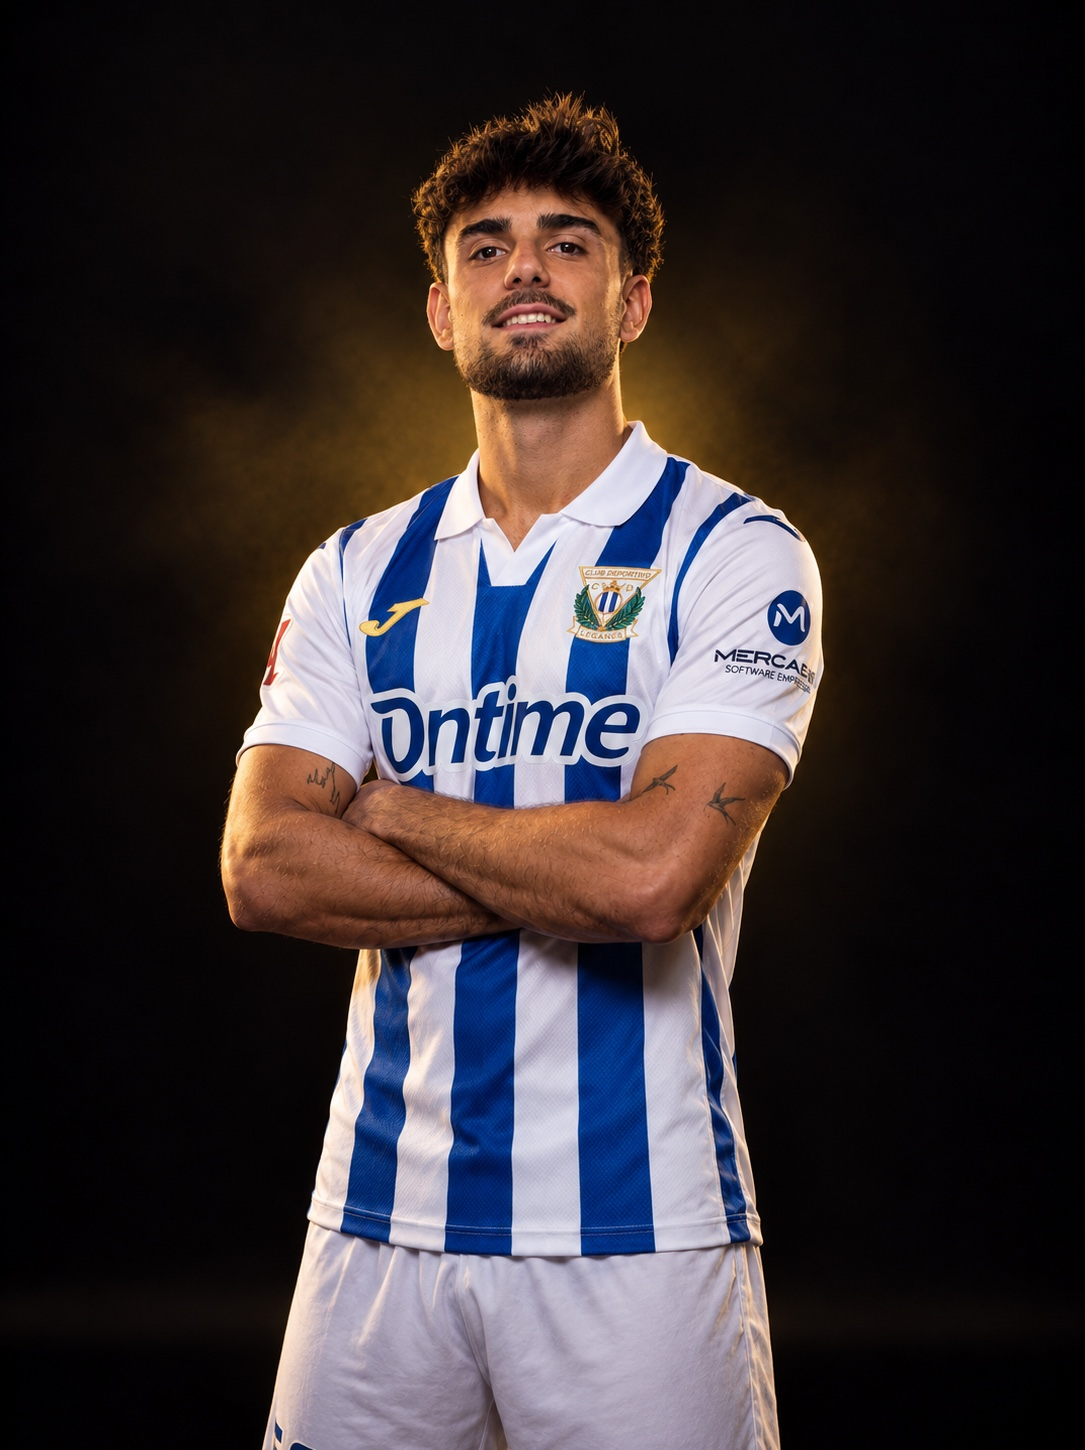
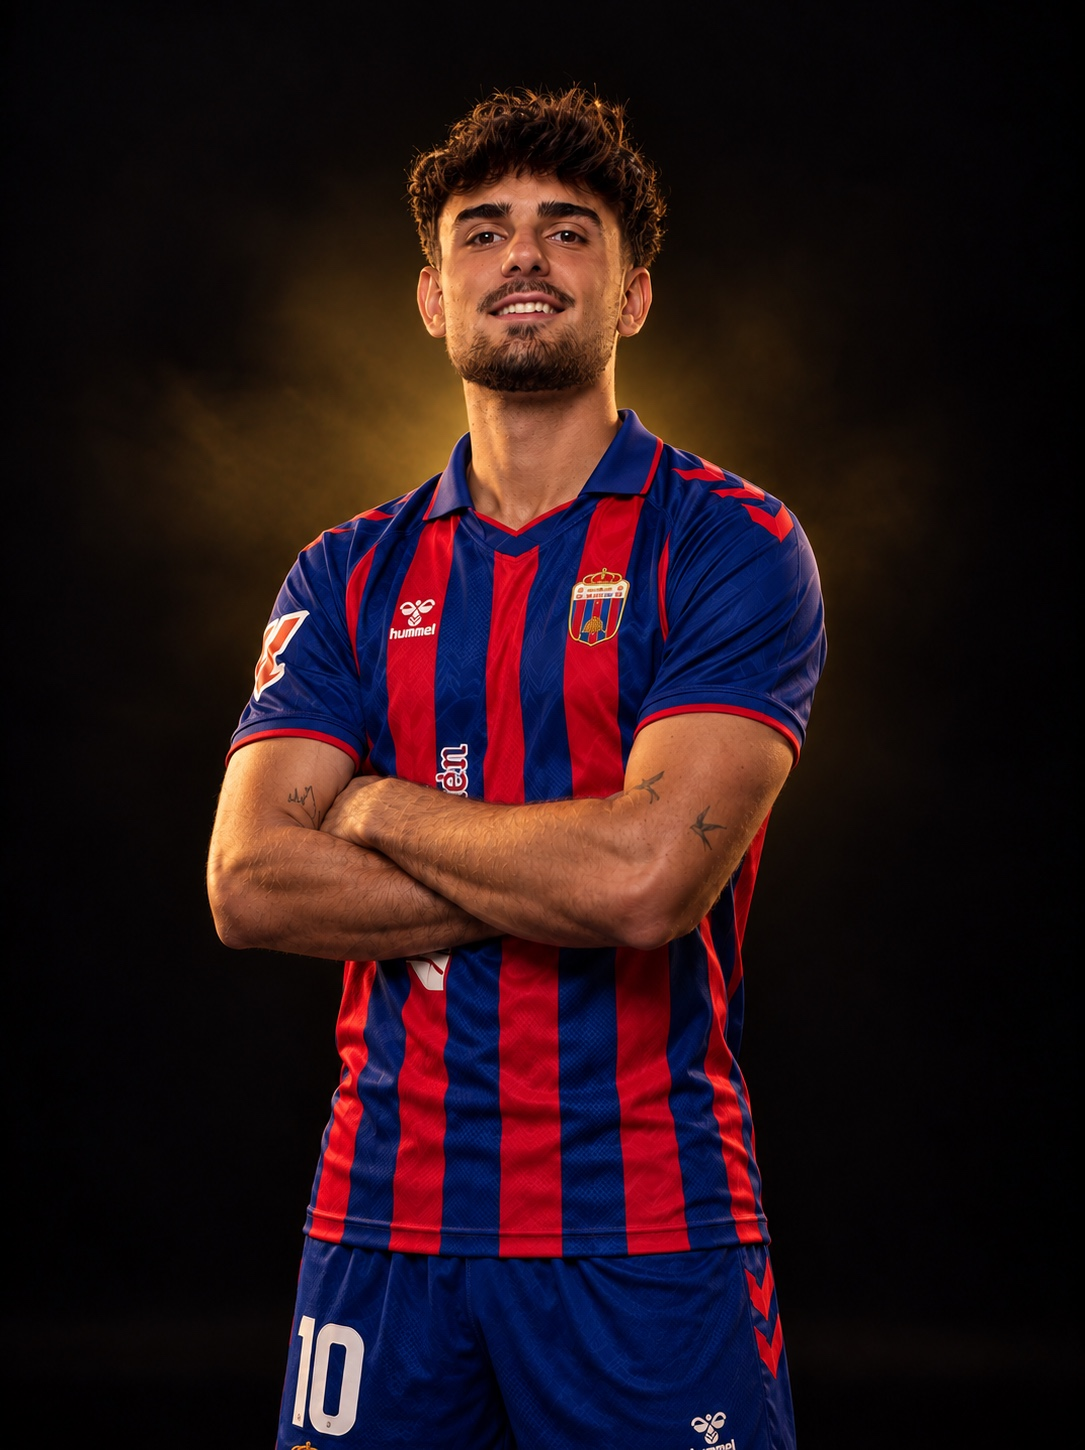
roster: Guirao y Danev con la camiseta de su club, y foto de estudio para Jordi Ferrer
Carlos Guirao pasa a la del CD Eldense (antes enseñaba la del Leganés, su
club anterior) y Dimitar Danev a la del Vardar (antes, la de la selección de
Macedonia del Norte). Jordi Ferrer recibe su foto de estudio con la del
Atlético La Paz. Las 25 primeras tarjetas quedan en la serie de estudio.

diff --git a/docs/hallazgos-abiertos.md b/docs/hallazgos-abiertos.md
@@ -102,41 +102,26 @@ Santi Pallarés, Boston Billups y Álex Domínguez) y el resto va pasando a la s
 estudio de abajo.
 
 **Desde el 2026-09-25 las fotos son una serie de estudio que prepara Mario**: todas
-con el mismo fondo oscuro, posado de brazos cruzados y, salvo las dos excepciones de
-abajo, la camiseta del club actual.
+con el mismo fondo oscuro, posado de brazos cruzados y la camiseta del club actual.
 Las va entregando por tandas y se sustituyen en el orden del grid. Mientras no
 estén todas, el grid mezcla las de estudio con las antiguas.
 
-**Hechas con la serie de estudio (24)**, las posiciones 1 a 25 del grid menos la 24
-(Jordi Ferrer), a 2026-09-30: Juan Cruz, Dani Requena, Mati Barzic, Iker Luque, Javi
-Hernández, Alberto Del Moral, Thiago Helguera, Owen Emeka, Salim El-Jebari, Damián
-Cáceres, Juanjo Sánchez, Carlos Guirao, Francisco Dias, Dani Muñoz, Christian
-Manrique, Dimitar Danev, Roberto Olabe, Alessandro Burlamaqui, Axel Montaña, Luis
-Quintero, Abde Raihani, Abdoulaye Keita, Dani Rebollo y Gonzalo Rodríguez. Con ellas
+**Hechas con la serie de estudio (25)**, las posiciones 1 a 25 del grid a
+2026-09-30: Juan Cruz, Dani Requena, Mati Barzic, Iker Luque, Javi Hernández, Alberto
+Del Moral, Thiago Helguera, Owen Emeka, Salim El-Jebari, Damián Cáceres, Juanjo
+Sánchez, Carlos Guirao, Francisco Dias, Dani Muñoz, Christian Manrique, Dimitar
+Danev, Roberto Olabe, Alessandro Burlamaqui, Axel Montaña, Luis Quintero, Abde
+Raihani, Abdoulaye Keita, Dani Rebollo, Jordi Ferrer y Gonzalo Rodríguez. Con ellas
 se cierran pendientes de la vía anterior: la foto de Alberto Del Moral que esperaba
-visto bueno, la de Mati Barzic, que era corta de resolución (619×825), y tres
-jugadores que no tenían ninguna (Abde Raihani, Dani Rebollo y Gonzalo Rodríguez).
-
-**Jordi Ferrer (posición 24) sigue con su foto antigua**: el PNG que llegó con su
-nombre el 2026-09-30 era una copia exacta, byte a byte, del de Dani Rebollo (portero
-del AVS; Ferrer es del Atlético La Paz). No se aplicó. Pendiente de que Mario mande
-la buena.
+visto bueno, la de Mati Barzic, que era corta de resolución (619×825), la de Carlos
+Guirao, que enseñaba el club anterior (Leganés), y tres jugadores que no tenían
+ninguna (Abde Raihani, Dani Rebollo y Gonzalo Rodríguez).
 
 **Las diez primeras llegaron dos veces.** La primera versión llevaba un resplandor
 dorado muy fuerte detrás; Mario las rehízo más suaves (cinco el 2026-09-28 y las
 otras cinco el 2026-09-30) y las nuevas sustituyeron a las primeras. Desde la
 posición 11 ya llegan con el resplandor suave. Una foto ya aplicada puede volver a
 llegar retocada: se sustituye igual.
-
-**Dos fotos de estudio no enseñan el club de la ficha**, pendiente de Mario (a
-2026-09-30). Las dos se aplicaron igual porque la foto anterior tenía ya la misma
-camiseta, así que no empeoran nada:
-- **Carlos Guirao** lleva la del **CD Leganés** y la ficha dice CD Eldense. Según el
-  barrido del 2026-09-05 (más abajo), el Leganés es su club anterior y en Drive no hay
-  material del Eldense.
-- **Dimitar Danev** lleva la de la **selección de Macedonia del Norte** (escudo de la
-  federación, ФФМ) y la ficha dice Vardar Skopje. Es internacional con esa selección
-  (`nationalTeamCodes: ["MK"]`), pero la tarjeta muestra el club.
 
 **Cómo se aplica una tanda**: llegan en PNG de unos 1085×1450 (3:4; alguna varía en
 un par de píxeles), sin perfil de color,
@@ -150,6 +135,13 @@ contenido sea el suyo**: en la tanda del 2026-09-30 dos PNG con nombres distinto
 eran el mismo archivo. Antes de aplicar, comparar las sumas (`md5 -q *.png`) y
 buscar repetidos. Si el jugador no tenía foto, el archivo nuevo se crea como
 `<slug>.jpg`.
+
+**Revisar cada camiseta contra el club de la ficha antes de aplicar**, ampliando el
+escudo. En la tanda del 2026-09-30 llegaron así Carlos Guirao con la del Leganés (su
+club anterior; la ficha dice CD Eldense) y Dimitar Danev con la de la selección de
+Macedonia del Norte (la ficha dice Vardar Skopje). Mario las rehízo con el club
+correcto esa misma noche. Si una no cuadra, se le dice a Mario; no se cambia el club
+de la ficha para que encaje con la foto.
 
 Los 29 nombres salen de ese commit; los más visibles son los que cambiaron de acera:
 Iker Luque (Atlético → Racing), Aimar García y Jorge Rajado (Atlético → Real Madrid),
@@ -203,8 +195,8 @@ entre dos de acción gana la del jugador aislado sobre la que tiene un rival enc
 Delgado, Ognjen Teofilovic, Rayan Zinebi y Salim El-Jebari. En todos ellos el material
 es del club anterior. No es que no se hayan buscado: no están. Volver a mirar cuando el
 fotógrafo suba material nuevo. De los siete, a 2026-09-25 están visibles todos
-menos Ognjen Teofilovic. Salim El-Jebari y Carlos Guirao ya tienen la de estudio,
-pero la de Guirao sigue con la camiseta del club anterior (arriba).
+menos Ognjen Teofilovic. Salim El-Jebari y Carlos Guirao ya tienen la de estudio con
+la camiseta del club actual.
 
 ### Backlog de rendimiento (medido el 2026-08-18)
 

diff --git a/ARCHITECTURE.md b/ARCHITECTURE.md
@@ -469,7 +469,7 @@ que ejecutar nada a mano.
 |---|---|---|
 | Logo SVG | ✅ En `/public/logo.svg` | |
 | Foto hero | ✅ `src/assets/images/hero/portada.png` | Logo en neón, 1672×941. Se ve algo blanda en pantallas retina grandes: falta un original más grande (`docs/hallazgos-abiertos.md`) |
-| Fotos jugadores | ⏳ 47 de los 51 visibles | 24 ya son de la serie de estudio nueva (puestos 1 a 25 salvo Jordi Ferrer); las otras 23, antiguas. Sin ninguna: Fran Manzanara, Santi Pallarés, Boston Billups y Álex Domínguez. Detalle en `docs/hallazgos-abiertos.md` (2026-09-30) |
+| Fotos jugadores | ⏳ 47 de los 51 visibles | 25 ya son de la serie de estudio nueva (puestos 1 a 25); las otras 22, antiguas. Sin ninguna: Fran Manzanara, Santi Pallarés, Boston Billups y Álex Domínguez. Detalle en `docs/hallazgos-abiertos.md` (2026-09-30) |
 | Escudos de selección | ✅ 9 WebP en `/public/national-team-badges/` | ES, PE, HR, MK, MA, BO, RO, PA, BR. Master PNG en `/assets/source-media/badges/` |
 | Fuente Söhne | ✅ Integrada | Archivos test de Klim — pendiente licencia |
 | OG image (1200×630px) | ❌ Pendiente | |
@@ -478,7 +478,7 @@ que ejecutar nada a mano.
 
 | Pendiente | Bloqueado por |
 |---|---|
-| Fotos de la selección visible: 27 por pasar a la serie de estudio, 4 de ellas sin ninguna foto (2026-09-30) | Cliente |
+| Fotos de la selección visible: 26 por pasar a la serie de estudio, 4 de ellas sin ninguna foto (2026-09-30) | Cliente |
 | OG image 1200×630px | Diseño |
 | GA4 — Measurement ID | Decisión de si se integra |
 | ⚠ Söhne `.woff2` con licencia de producción — **sigue sin comprar a 2026-08-11**, y la web está publicada desde abril con los archivos de prueba | Compra de licencia (Mario) |
